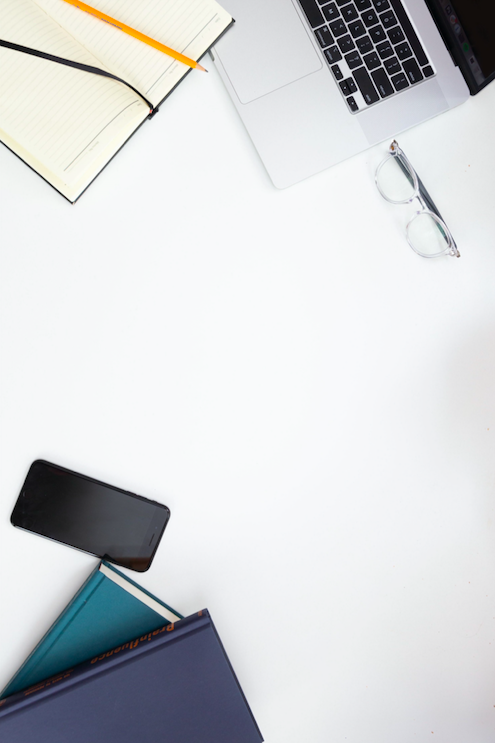
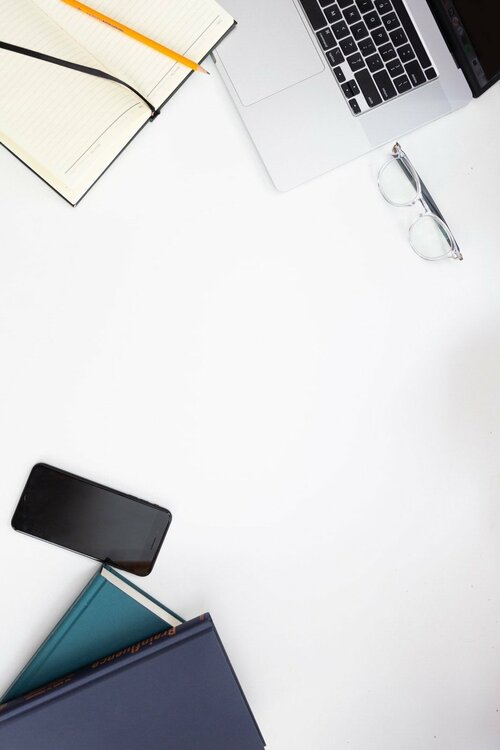
ok

diff --git a/reactapp/src/Section3.js b/reactapp/src/Section3.js
@@ -1,6 +1,11 @@
 import React from "react";
 import Background from './projetBackground.jpg'
+import BackgroundVerticale from './projetBackground-mobile.jpg'
+import BackgroundHorizontale from './projetBackground-mobileH.jpg'
+import BackgroundTabletteV from './projetBackground-tabletteV.jpg'
 import ReactTooltip from 'react-tooltip';
+import styled from "styled-components";
+
 import {
   Card, CardText,
   CardTitle, Row, Col
@@ -17,6 +22,78 @@ import DesktopIcon from './desktopIcon.png'
 var link="https://github.com/kv1k"
 
 export default function Section3() {
+
+  const Hero = styled.div`
+  font-family: 'poppins';
+  padding:0;
+  margin:0;
+  width: 100%;
+  height: 1300px;
+  background-image: url(${Background}); no-repeat;
+  -webkit-background-size: cover; /* pour anciens Chrome et Safari */
+  background-size: cover;
+
+  
+  @media screen and (max-width: 1199px) {
+    margin-bottom: 7px;
+    width: 100%;
+    height: 1650px;
+
+  }
+ 
+    @media screen and (max-width: 991px) {
+      @media screen and (min-height: 391px) {
+      width: 100%;
+      height: 1650px;
+      background-color: rgb(0,0,0,0.65);
+      background-image: url(${BackgroundTabletteV}); no-repeat;
+      margin-bottom: 10px;
+      }
+      @media screen and (max-height: 390px) {
+        width: 100%;
+        height: 1650px;
+        background-color: rgb(0,0,0,0.65);
+        background-image: url(${BackgroundHorizontale}); no-repeat;
+        margin-bottom: 10px;
+        }
+
+    }
+  
+
+  @media screen and (max-width: 767px)  {
+    background-image: url(${BackgroundHorizontale}); no-repeat;
+
+    margin-bottom: 7px;
+    @media screen and (min-height: 351px)  {
+      width: 100%;
+      height: 1650px;
+    }
+    @media screen and (max-height: 351px)  {
+      width: 100%;
+      height: 1650px;
+    }
+    
+   
+  }
+  
+
+  @media screen and (max-width: 575px) {
+  
+    @media screen and (max-height: 700px) {
+      width: 100%;
+      height: 1650px;
+      margin-bottom: 5px;
+      background-image: url(${BackgroundVerticale}); no-repeat;
+    }
+    @media screen and (min-height: 701px) {
+      width: 100%;
+      height: 1650px;
+      margin-bottom: 7px;
+      background-image: url(${BackgroundVerticale}); no-repeat;
+    }
+  }
+  
+`;
   var allDataAcademique= [
     {
       nom: "Morning News",

diff --git a/reactapp/src/Section4.js b/reactapp/src/Section4.js
@@ -1,5 +1,8 @@
 import React, {useState} from "react";
 import Background from './experienceDiplome.jpg'
+import BackgroundVerticale from './experienceDiplome-mobile.jpg'
+import BackgroundHorizontale from './experienceDiplome-mobileH.jpg'
+import BackgroundTabletteV from './experienceDiplome-tabletteV.jpg'
 import './index.css';
 import {
   Card, 
@@ -61,19 +64,19 @@ export default function Section4() {
     width: 100%;
     margin-bottom: 10px;
     height: 1000px;
-    background-image: url(${Background}); no-repeat;
+    background-image: url(${BackgroundTabletteV}); no-repeat;
   }
   @media screen and (max-width: 767px)  {
     margin-bottom: 5px;
     @media screen and (min-height: 351px)  {
       width: 100%;
       height: 389px;
-      background-image: url(${Background}); no-repeat;
+      background-image: url(${BackgroundHorizontale}); no-repeat;
     }
     @media screen and (max-height: 351px)  {
       width: 100%;
       height: 357px;
-      background-image: url(${Background}); no-repeat;
+      background-image: url(${BackgroundHorizontale}); no-repeat;
     }
    
   }
@@ -84,13 +87,13 @@ export default function Section4() {
       width: 100%;
       height: 685px;
       margin-bottom: 5px;
-      background-image: url(${Background}); no-repeat;
+      background-image: url(${BackgroundVerticale}); no-repeat;
     }
     @media screen and (min-height: 701px) {
       width: 100%;
       height: 836px;
       margin-bottom: 8px;
-      background-image: url(${Background}); no-repeat;
+      background-image: url(${BackgroundVerticale}); no-repeat;
     }
   }
   
